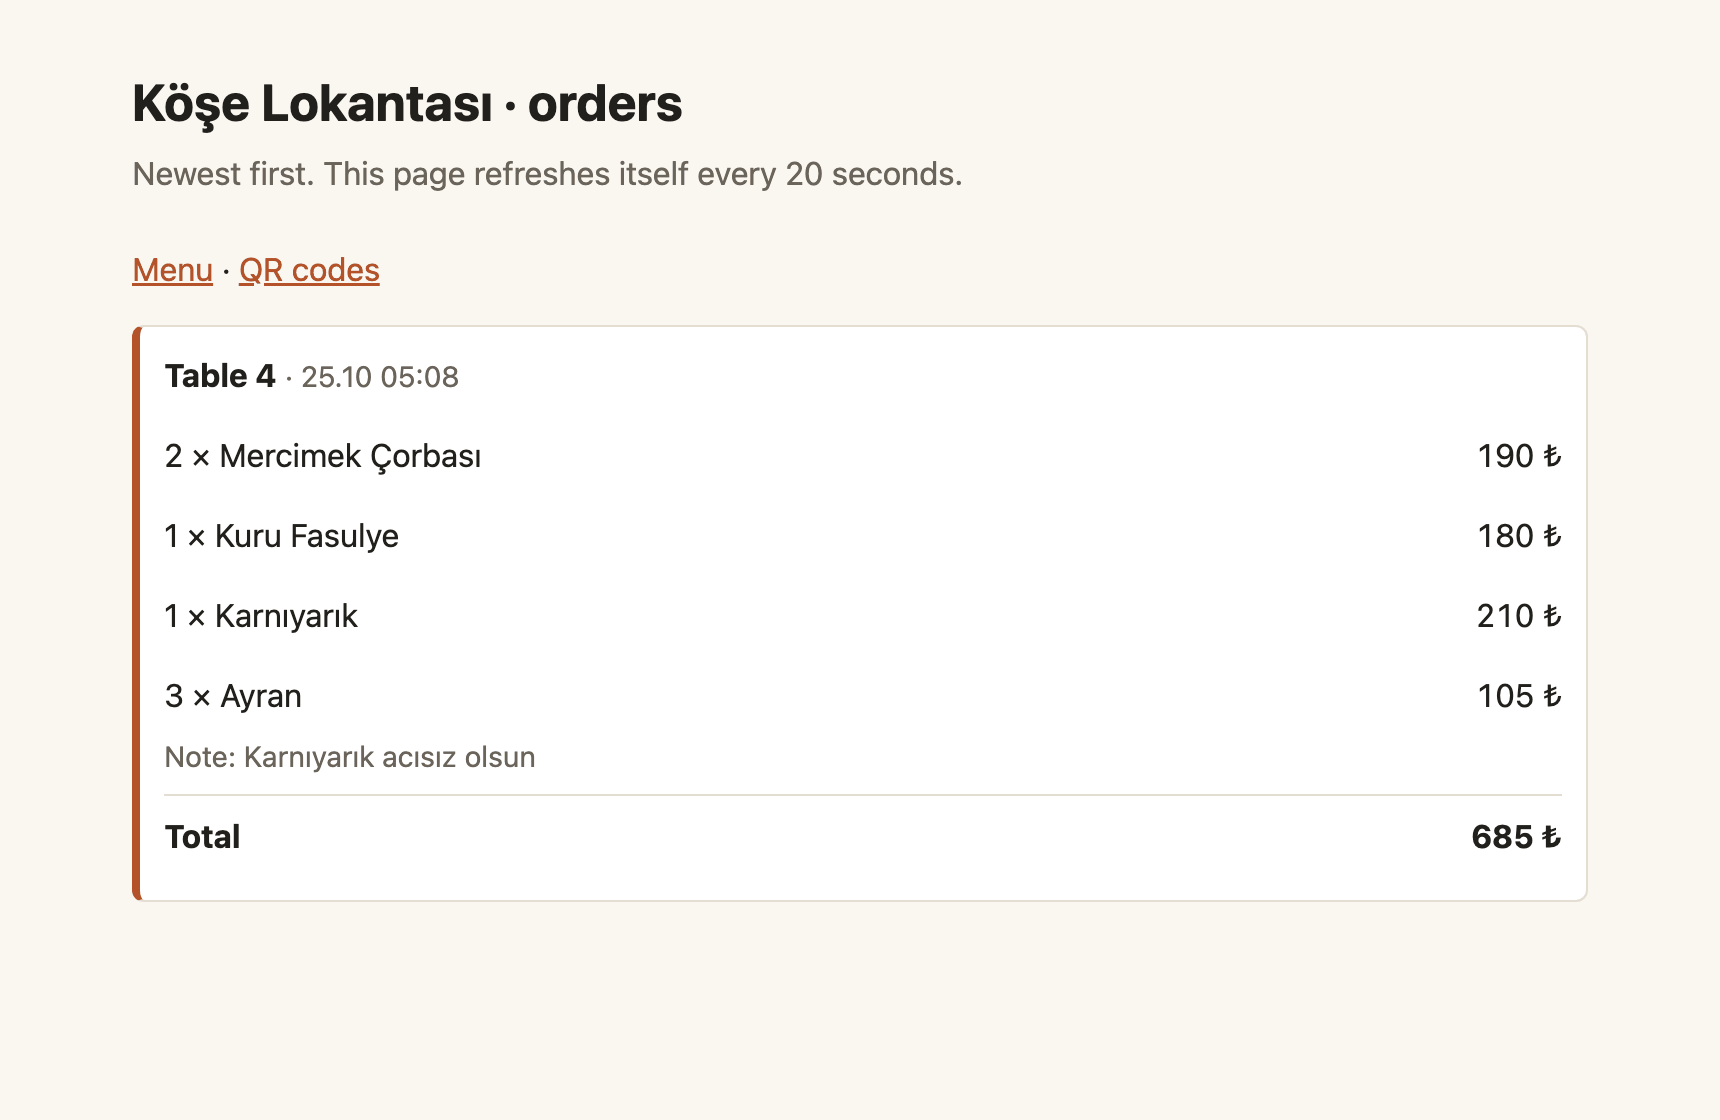
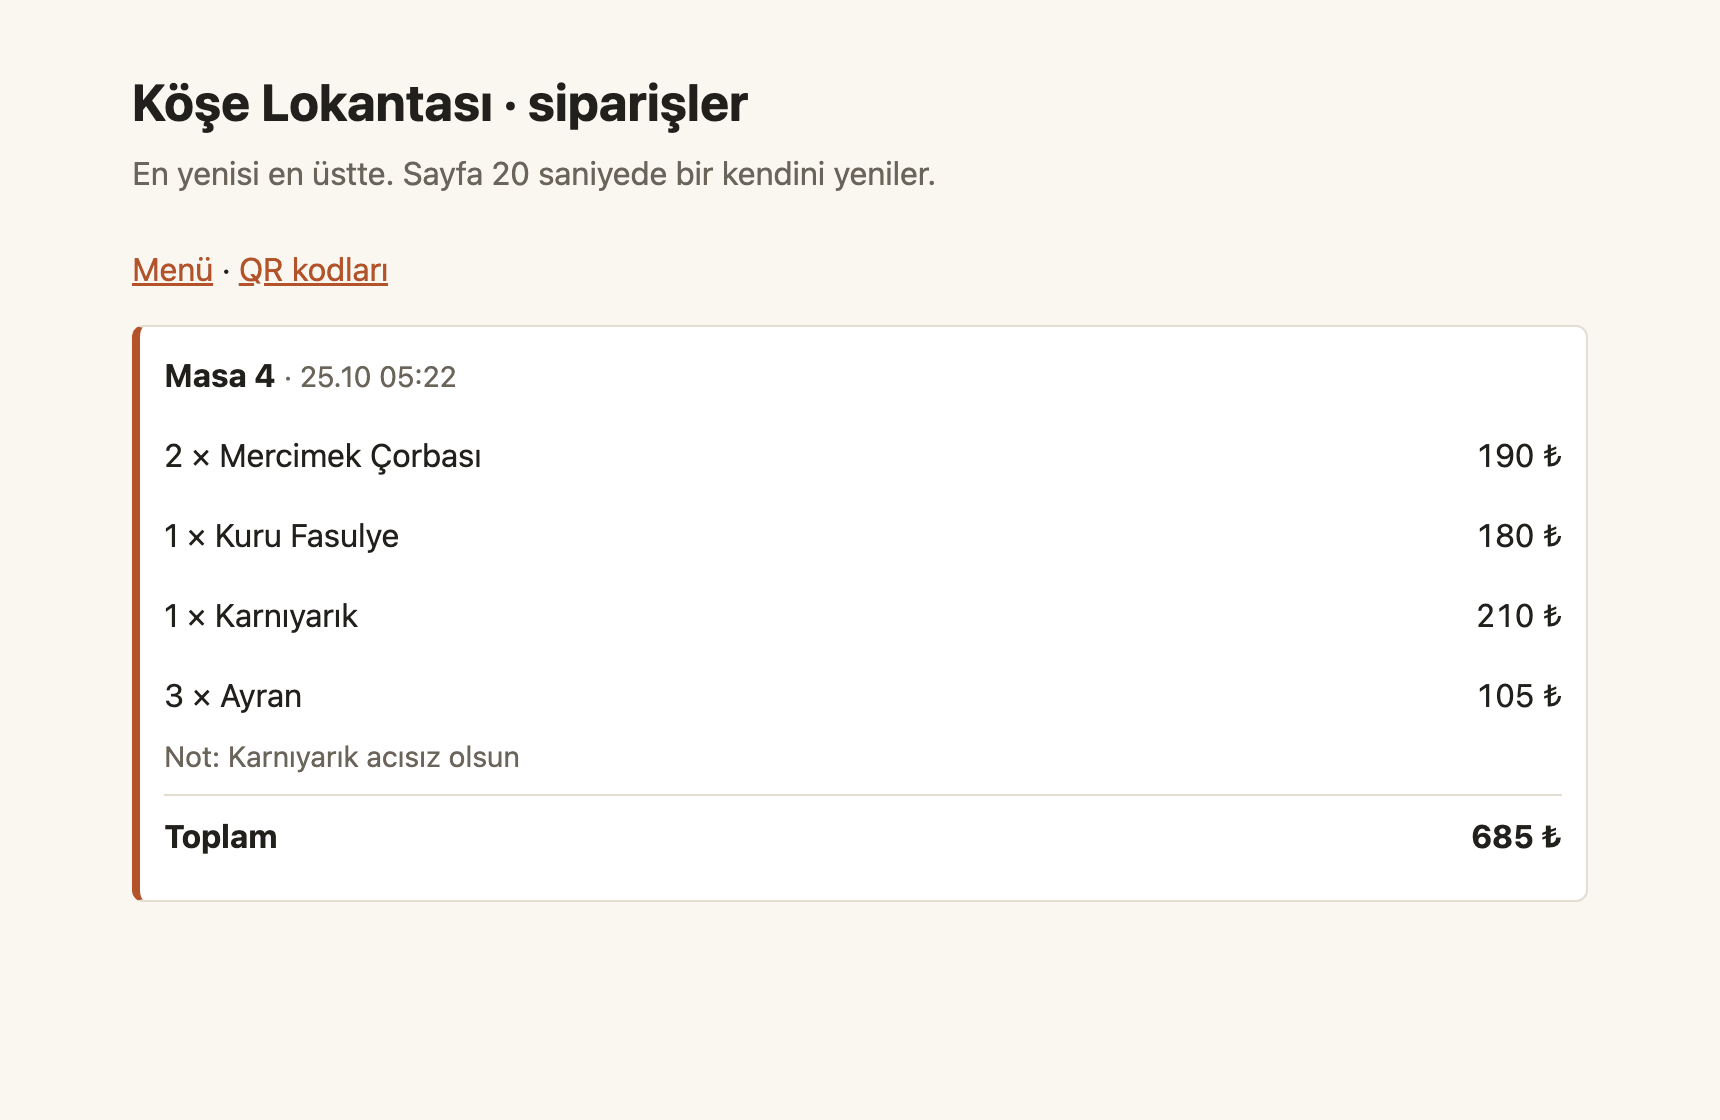
Translate the interface to Turkish

diff --git a/src/Verification/Review.cs b/src/Verification/Review.cs
@@ -22,7 +22,7 @@ public sealed class Review(MenuDb db, TimeProvider time)
         if (outcome is not null)
             return outcome;
         if (flag!.Field == MenuField.Price && item!.Price is null)
-            return new ReviewOutcome.Rejected("There is no price to confirm; enter one instead.");
+            return new ReviewOutcome.Rejected("Onaylanacak bir fiyat yok, lütfen fiyatı yazın.");
 
         var now = time.GetUtcNow();
         foreach (var f in item!.Flags.Where(f => f.Field == flag.Field))
@@ -38,7 +38,7 @@ public sealed class Review(MenuDb db, TimeProvider time)
         if (outcome is not null)
             return outcome;
         if (string.IsNullOrWhiteSpace(value) && flag!.Field is MenuField.Name or MenuField.Price)
-            return new ReviewOutcome.Rejected("This field cannot be empty.");
+            return new ReviewOutcome.Rejected("Bu alan boş bırakılamaz.");
 
         var now = time.GetUtcNow();
         string? old;
@@ -46,7 +46,7 @@ public sealed class Review(MenuDb db, TimeProvider time)
         {
             var amount = PriceText.Parse(value).Amount;
             if (amount is null)
-                return new ReviewOutcome.Rejected("That is not a price we can read. Write it like 180 or 185,50.");
+                return new ReviewOutcome.Rejected("Bu fiyat okunamadı. 180 ya da 185,50 gibi yazın.");
 
             old = item!.Price?.ToString(CultureInfo.InvariantCulture);
             item.CorrectPrice(amount.Value);
@@ -75,7 +75,7 @@ public sealed class Review(MenuDb db, TimeProvider time)
         if (version is null)
             return new ReviewOutcome.NotFound();
         if (version.Status == MenuStatus.Published)
-            return new ReviewOutcome.Rejected("A published menu cannot change.");
+            return new ReviewOutcome.Rejected("Yayındaki bir menü değiştirilemez.");
 
         var now = time.GetUtcNow();
         foreach (var flag in version.Items.SelectMany(i => i.Flags).Where(f => f.Reason == FlagReason.CurrencyMissing))
@@ -94,7 +94,7 @@ public sealed class Review(MenuDb db, TimeProvider time)
         var item = await db.MenuItems.Include(i => i.Flags).SingleAsync(i => i.Id == flag.MenuItemId, ct);
         var status = await db.MenuVersions.Where(v => v.Id == item.MenuVersionId).Select(v => v.Status).SingleAsync(ct);
         return status == MenuStatus.Published
-            ? (flag, item, new ReviewOutcome.Rejected("A published menu cannot change."))
+            ? (flag, item, new ReviewOutcome.Rejected("Yayındaki bir menü değiştirilemez."))
             : (flag, item, null);
     }
 }

diff --git a/src/Api/Guest/Checkout.cs b/src/Api/Guest/Checkout.cs
@@ -4,7 +4,7 @@ namespace MenuToOrder.Api.Guest;
 
 public static class Checkout
 {
-    public const string MenuChanged = "The menu was just updated. Please check your order again.";
+    public const string MenuChanged = "Menü az önce güncellendi. Lütfen siparişinize yeniden göz atın.";
 
     // Reads "qty.{itemId}" fields. Only ids and counts come from the form, never a price.
     public static (Dictionary<Guid, int>? Cart, string? Error) Read(IFormCollection form)
@@ -15,12 +15,12 @@ public static class Checkout
             if (!key.StartsWith("qty.", StringComparison.Ordinal))
                 continue;
             if (!Guid.TryParse(key.AsSpan(4), out var id) || !int.TryParse(value, out var quantity) || quantity is < 0 or > Order.MaxQuantity)
-                return (null, $"Each dish can be ordered 0 to {Order.MaxQuantity} times.");
+                return (null, $"Her yemekten 0 ile {Order.MaxQuantity} arasında sipariş verilebilir.");
             if (quantity > 0)
                 cart[id] = quantity;
         }
 
-        return cart.Count == 0 ? (null, "Pick at least one dish.") : (cart, null);
+        return cart.Count == 0 ? (null, "En az bir yemek seçin.") : (cart, null);
     }
 
     public static (Order? Order, string? Error) Price(MenuVersion menu, IEnumerable<MenuItem> items, Guid seenMenuId,
@@ -32,7 +32,7 @@ public static class Checkout
 
         note = string.IsNullOrWhiteSpace(note) ? null : note.Trim();
         if (note?.Length > Order.MaxNoteLength)
-            return (null, $"Keep the note under {Order.MaxNoteLength} characters.");
+            return (null, $"Not en fazla {Order.MaxNoteLength} karakter olabilir.");
 
         var lines = cart.Select(c => (byId[c.Key], c.Value)).OrderBy(l => l.Item1.Position);
         return (new Order(menu.RestaurantId, menu.Id, table, note, lines, now), null);

diff --git a/src/Api/Intake/IntakeEndpoints.cs b/src/Api/Intake/IntakeEndpoints.cs
@@ -22,19 +22,19 @@ public static class IntakeEndpoints
 
             name = name?.Trim();
             if (string.IsNullOrEmpty(name) || name.Length > 80)
-                return Retry("Give the restaurant a name of up to 80 characters.");
+                return Retry("Restoran adını yazın (en fazla 80 karakter).");
             if (!int.TryParse(tables, out var tableCount) || tableCount is < 1 or > 100)
-                return Retry("The number of tables has to be between 1 and 100.");
+                return Retry("Masa sayısı 1 ile 100 arasında olmalı.");
             if (photo is null || photo.Length == 0)
-                return Retry("Choose a photo of the menu.");
+                return Retry("Menünün fotoğrafını seçin.");
             if (photo.Length > PhotoCheck.MaxBytes)
-                return Retry("The photo is larger than 10 MB.");
+                return Retry("Fotoğraf 10 MB'tan büyük.");
 
             using var buffer = new MemoryStream();
             await photo.CopyToAsync(buffer, ct);
             var bytes = buffer.ToArray();
             if (PhotoCheck.MediaType(bytes) is not { } mediaType)
-                return Retry("That file is not a JPEG, PNG or WebP image.");
+                return Retry("Bu dosya JPEG, PNG ya da WebP bir görsel değil.");
 
             var token = OwnerToken.New();
             var restaurant = new Restaurant(name, Slug.For(name), OwnerToken.Hash(token), tableCount, time.GetUtcNow());

diff --git a/src/Verification/VerificationGate.cs b/src/Verification/VerificationGate.cs
@@ -25,15 +25,15 @@ public sealed class VerificationGate(MenuDb db, TimeProvider time)
         if (version.Status == MenuStatus.Published)
             return new PublishOutcome.AlreadyPublished();
         if (version.Items.Count == 0)
-            return new PublishOutcome.Blocked("The menu has no items.");
+            return new PublishOutcome.Blocked("Menüde hiç ürün yok.");
 
         var open = version.Items.Sum(i => i.Flags.Where(f => f.ResolvedAt is null).DistinctBy(f => f.Field).Count());
         if (open > 0)
-            return new PublishOutcome.Blocked($"{open} flagged field(s) still need the owner.");
+            return new PublishOutcome.Blocked($"{open} alan hâlâ sizin onayınızı bekliyor.");
 
         // Unreadable prices are always flagged, but the gate checks directly instead of trusting that.
         if (version.Items.Any(i => i.Price is null))
-            return new PublishOutcome.Blocked("An item has no price.");
+            return new PublishOutcome.Blocked("Fiyatı olmayan bir ürün var.");
 
         var at = time.GetUtcNow();
         version.Publish(at);

diff --git a/tests/MenuToOrder.Tests/Verification/GateTests.cs b/tests/MenuToOrder.Tests/Verification/GateTests.cs
@@ -28,7 +28,7 @@ public class GateTests(PostgresFixture postgres)
         await using var db = postgres.CreateDb();
         var outcome = await Gate(db).PublishAsync(draft.Version.Id, Ct);
 
-        Assert.Equal(new PublishOutcome.Blocked("6 flagged field(s) still need the owner."), outcome);
+        Assert.Equal(new PublishOutcome.Blocked("6 alan hâlâ sizin onayınızı bekliyor."), outcome);
         Assert.Equal(MenuStatus.Draft, (await db.MenuVersions.SingleAsync(v => v.Id == draft.Version.Id, Ct)).Status);
     }
 
@@ -69,7 +69,7 @@ public class GateTests(PostgresFixture postgres)
         await Gate(db).PublishAsync(draft.Version.Id, Ct);
 
         Assert.IsType<PublishOutcome.AlreadyPublished>(await Gate(db).PublishAsync(draft.Version.Id, Ct));
-        Assert.Equal(new ReviewOutcome.Rejected("A published menu cannot change."),
+        Assert.Equal(new ReviewOutcome.Rejected("Yayındaki bir menü değiştirilemez."),
             await review.CorrectAsync(draft.Flags[0].Id, "999", Ct));
     }
 

diff --git a/src/Api/Owner/OwnerEndpoints.cs b/src/Api/Owner/OwnerEndpoints.cs
@@ -75,7 +75,7 @@ public static class OwnerEndpoints
             if (await db.FindOwnerAsync(token, ct) is not { } restaurant)
                 return Results.NotFound();
             if (!await db.MenuVersions.AnyAsync(v => v.RestaurantId == restaurant.Id && v.Status == MenuStatus.Published, ct))
-                return Back(token, "Publish the menu first.");
+                return Back(token, "Önce menüyü yayınlayın.");
 
             var codes = Enumerable.Range(1, restaurant.TableCount)
                 .Select(table => $"{request.Scheme}://{request.Host}/m/{restaurant.Slug}/{table}")

diff --git a/tests/MenuToOrder.Tests/Api/CheckoutTests.cs b/tests/MenuToOrder.Tests/Api/CheckoutTests.cs
@@ -58,7 +58,7 @@ public class CheckoutTests
 
     [Fact]
     public void An_empty_cart_is_refused() =>
-        Assert.Equal("Pick at least one dish.", Checkout.Read(Form(("qty." + Soda.Id, "0"))).Error);
+        Assert.Equal("En az bir yemek seçin.", Checkout.Read(Form(("qty." + Soda.Id, "0"))).Error);
 
     [Fact]
     public void A_dish_without_a_price_cannot_be_ordered() =>

diff --git a/README.md b/README.md
@@ -63,9 +63,11 @@ unflagged. The generated table lives in `docs/accuracy.md`.
 
 ## What it looks like
 
+The interface is in Turkish, for the owners and guests it is built for.
+
 | Owner review | Table menu on a phone | Incoming orders |
 |---|---|---|
-| ![Owner review page with flagged fields](docs/screenshots/review.png) | ![Guest menu at table 4](docs/screenshots/menu.png) | ![Owner order list](docs/screenshots/orders.png) |
+| ![Owner review page with flagged fields](docs/screenshots/review.png) | ![Table 4 menu on a phone](docs/screenshots/menu.png) | ![Owner order list](docs/screenshots/orders.png) |
 
 ## Stack
 
